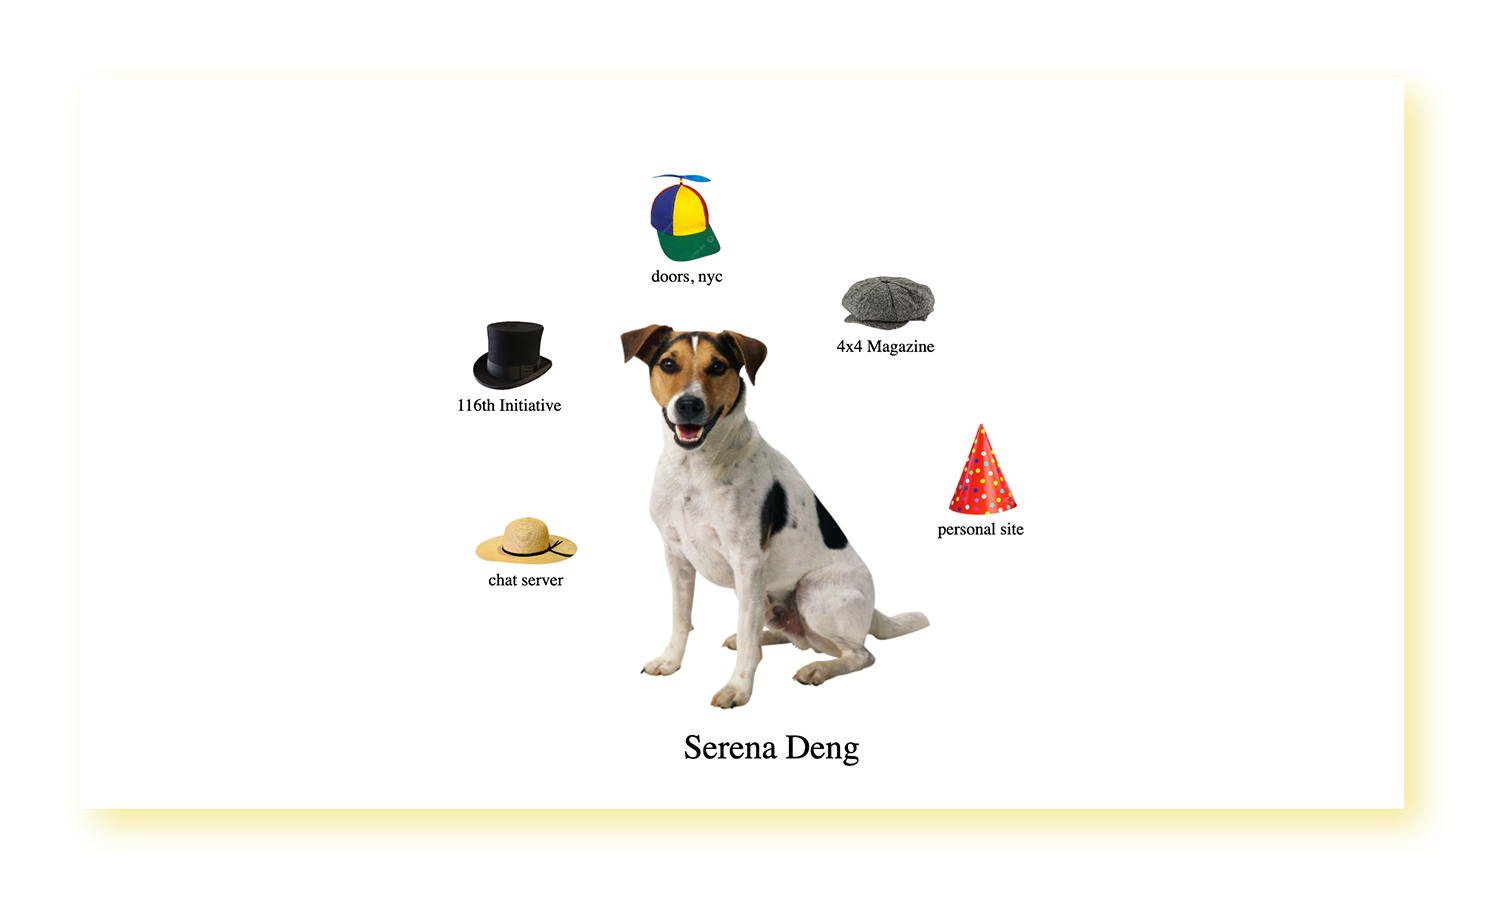
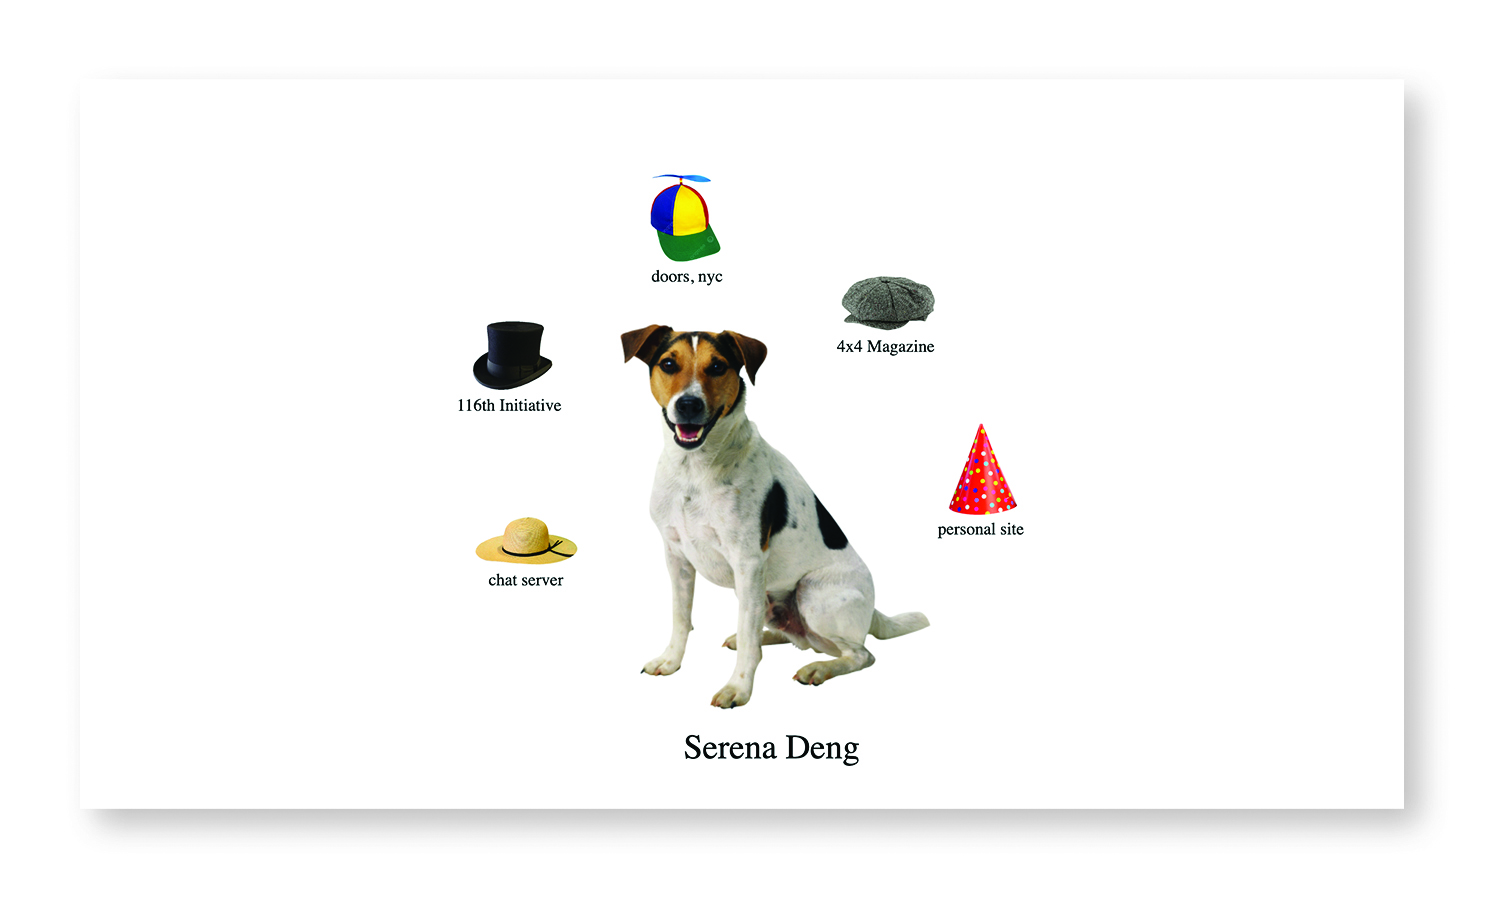
font sizing etc

diff --git a/index.css b/index.css
@@ -11,7 +11,6 @@
 body {
     font-family: "Arial";
     font-weight: 500;
-    text-transform: uppercase;
     background-color: #f2f1da;
 } #dog {
     position: absolute;
@@ -48,31 +47,31 @@ body {
     left: 15%;
     top: 54%;
     margin-top: 81px;
-    margin-left: -8px;
+    margin-left: 6px;
 } #proj2 {
     left: 28%;
     top: 30%;
     margin-top: 110px;
-    margin-left: -16px;
+    margin-left: -6px;
 } #proj3 {
     left: 50%;
     top: 10%;
     margin-top: 86px;
-    margin-left: -63px;
+    margin-left: -55px;
 } #proj4 {
     top: 30%;
     right: 28%;
     margin-top: 72px;
+    margin-right: 8px;
 } #proj5 {
     right: 15%;
     top: 54%;
     margin-top: 128px;
-    margin-right: -20px;
 } #serena {
     left: 50%;
     top: 45%;
-    margin-top: 230px;
-    margin-left: -85px;
+    margin-top: 240px;
+    margin-left: -68px;
     font-size: 24px;
 } .text {
     position: absolute;
@@ -96,9 +95,10 @@ body {
     } #proj1, #proj3, #proj4 {
         margin-top: 10.4%;
     } #proj2, #proj5 {
-        margin-top: 12.8%;
+        margin-top: 13%;
     } #serena {
-        margin-top: 24%;
+        font-size:20px;
+        margin-top: 26%;
     }
     
 }

diff --git a/index.html b/index.html
@@ -14,10 +14,10 @@
     <img id="hat3" class="drag" src="./components/hat3.png" draggable="true"/>
     <img id="hat4" class="drag" src="./components/hat4.png" draggable="true"/>
     <img id="hat5" class="drag" src="./components/hat5.png" draggable="true"/>
-    <a id="proj1" class="text" href="./pages/chat.html">chat server</a>
+    <a id="proj1" class="text" href="./pages/chat.html">Chat Server</a>
     <a id="proj2" class="text" href="./pages/116thinitiative.html">116th Initiative</a>
     <a id="proj3" class="text" href="./pages/doorsnyc.html">Doors, NYC</a>
     <a id="proj4" class="text" href="./pages/chefmikes.html">Chef Mike&#8217;s</a>
-    <a id="proj5" class="text" href="./pages/personalsite.html">personal site</a>
+    <a id="proj5" class="text" href="./pages/personalsite.html">Personal Site</a>
     <a id="serena" class="text" href="./pages/about.html">Serena Deng</a>
 </body>

diff --git a/pages/116thinitiative.html b/pages/116thinitiative.html
@@ -17,7 +17,7 @@
            of historical protest documents and ephemera, which used typewritten text, cut-and-pasted pictures, 
            and cheap photocopying to quickly and securely circulate information. 
         </p>
-        <p>TYPESCRIPT, REACT, CSS, GITHUB PAGES</p>
+        <p>TYPESCRIPT + REACT, CSS, FIGMA, GITHUB PAGES</p>
         <a href="https://116thinitiative.org" target="_blank">116thinitiative.org</a><span> / </span>
         <a href="https://github.com/116thinitiative/116th-website" target="_blank">code</a>
         <p><a id="back" href="../index.html">< back</a></p>

diff --git a/pages/chefmikes.html b/pages/chefmikes.html
@@ -17,7 +17,7 @@
            SQLAlchemy package to connect to the database. In this web app, users can log in with their 
            school ID and build a meal. This was a project for COMS4111 Introduction to Databases.
         </p>
-        <p>POSTGRESQL, PYTHON, SQLALCHEMY, FLASK, HTML, JINJA</p>
+        <p>POSTGRESQL, PYTHON + SQLALCHEMY + FLASK, HTML + JINJA</p>
         <a href="https://gitfront.io/r/srenadeng/Ua3SCbPSeVV2/chefmikes/" target="_blank">code</a>
         <p><a id="back" href="../index.html">< back</a></p>
     </div> 

diff --git a/pages/projects.css b/pages/projects.css
@@ -4,7 +4,7 @@
 
 body {
     font-family:"Arial";
-    font-size: 18px;
+    font-size: 16px;
     background-color: #f2f1da;
 } img {
     width: 39%;
@@ -15,7 +15,7 @@ body {
     top: 5px;
     left: 40%;
     margin-left: 50px;
-    font-size: 18px;
+    font-size: 16px;
     font-weight: 400;
     text-transform: uppercase;
     padding-bottom: 20px;
@@ -23,7 +23,7 @@ body {
     position: absolute;
     left: 40%;
     margin-left: 50px;
-    margin-right: 20px;
+    margin-right: 100px;
     margin-top: 40px;
     top: 100px;
 }

diff --git a/pages/about.css b/pages/about.css
@@ -4,11 +4,11 @@
 
 body {
     font-family:"Arial";
-    font-size: 18px;
+    font-size: 16px;
     background-color: #f2f1da;
 } h1 {
     font-weight:400;
-    font-size: 18px;
+    font-size: 16px;
     text-transform: uppercase;
     position: absolute;
     top: 0px;
